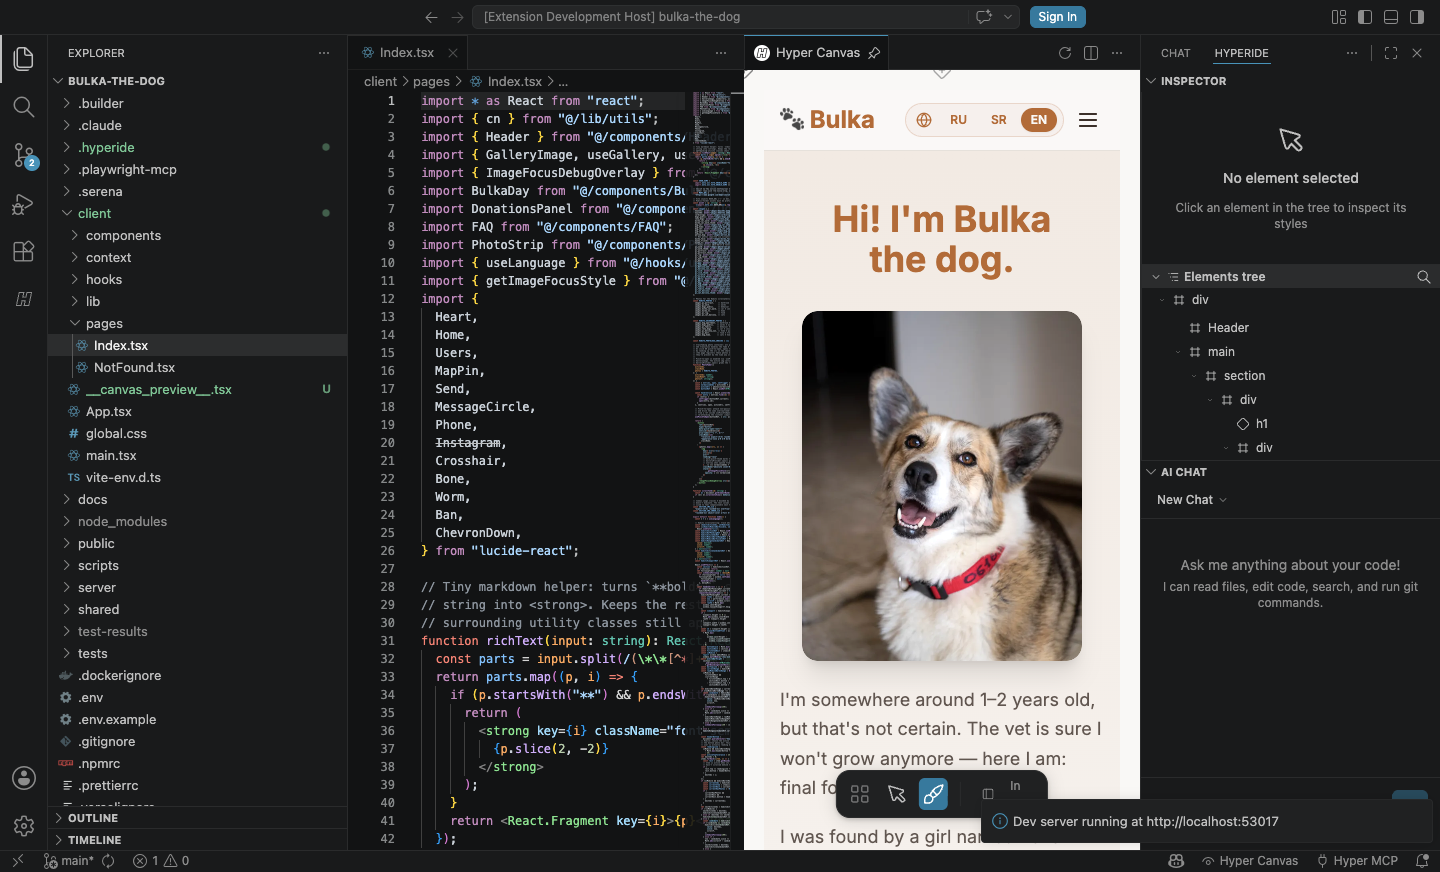
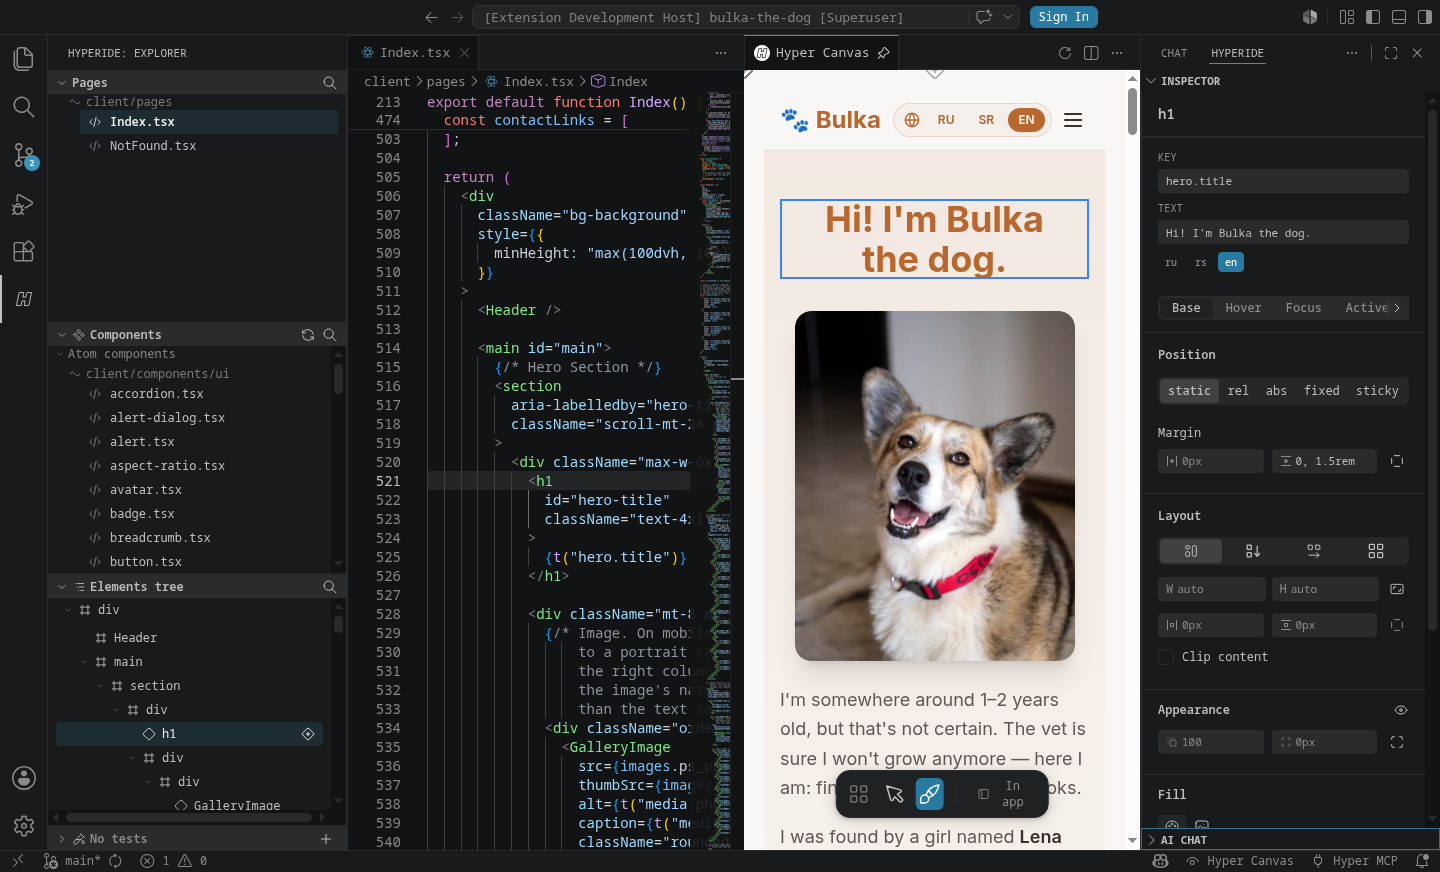
sync(a5636b24): feat(landing): update hero screenshot — Hyper Explorer + inspector + selection (HYP-738) (#460)
Source: https://github.com/hyperide/hyper-saas/commit/a5636b241fbc1d03ab7697549202eed565d583f6

diff --git a/client/pages/Product/screenshotSrc.ts b/client/pages/Product/screenshotSrc.ts
@@ -1,4 +1,4 @@
-const SCREENSHOT_VERSION = '2026-05-02-hyperide-bulka';
+const SCREENSHOT_VERSION = '2026-06-12-hyper-explorer';
 
 export function screenshotSrc(path: string) {
   return `${path}?v=${SCREENSHOT_VERSION}`;
